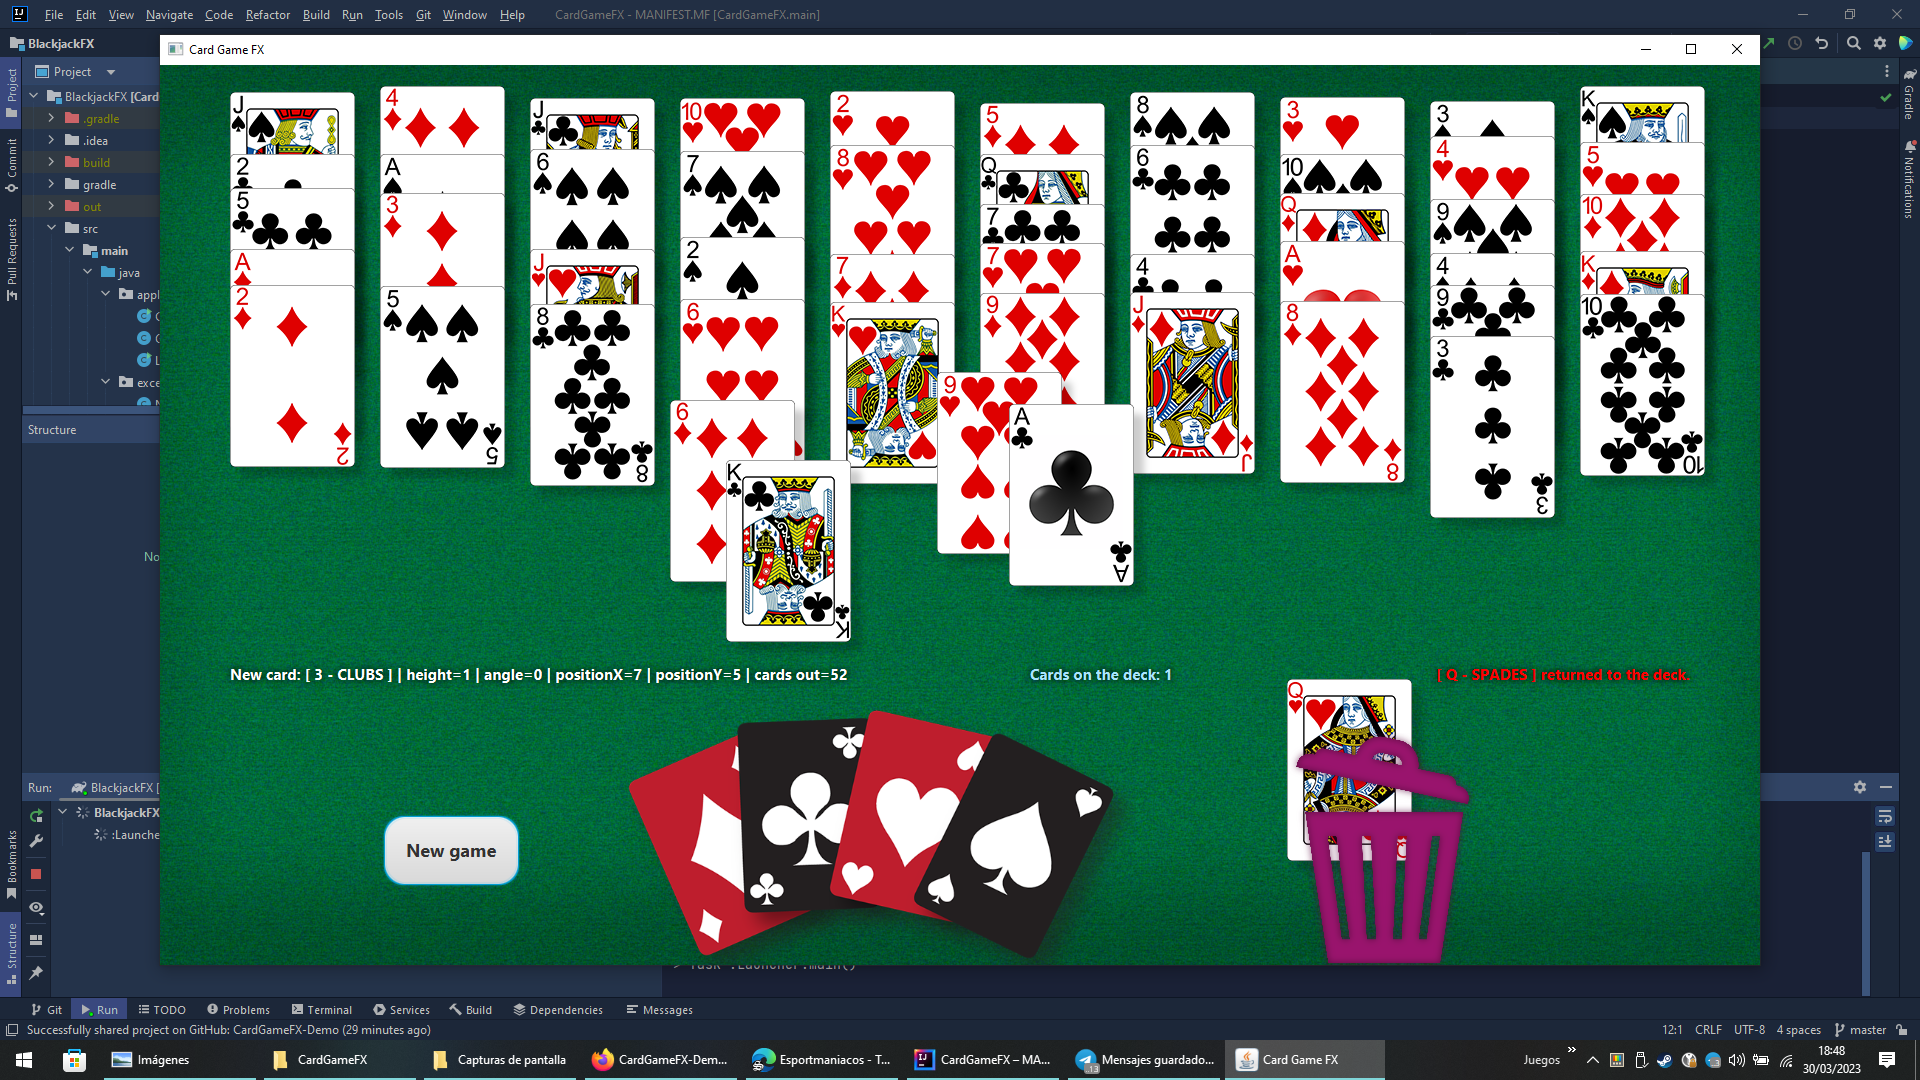
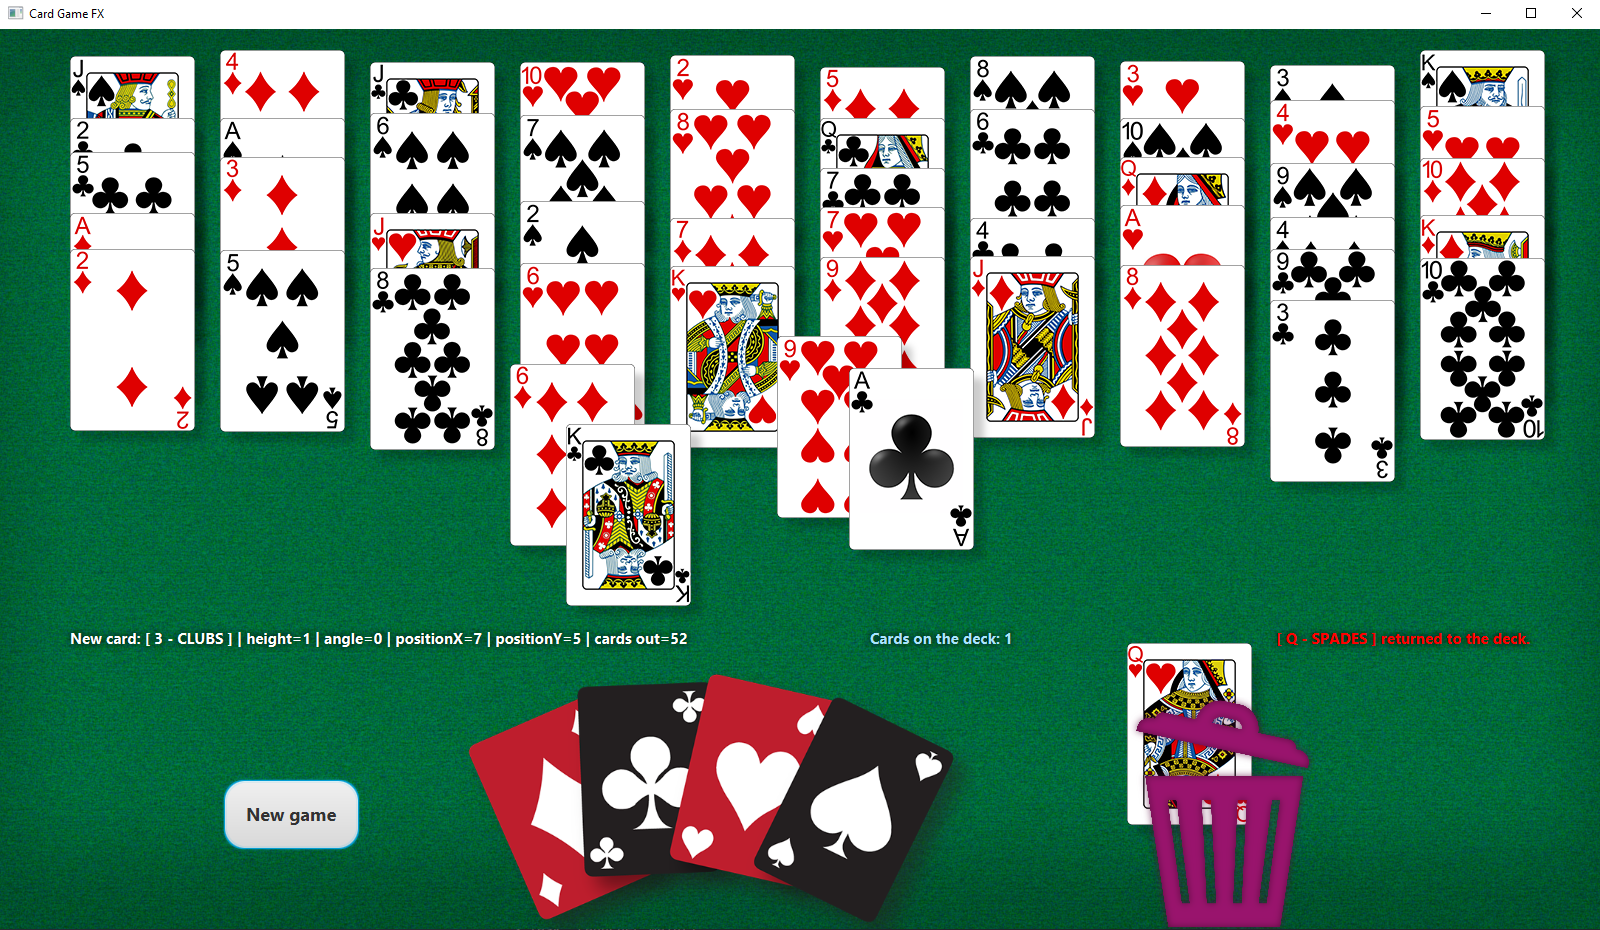
Added full description and images

diff --git a/README.md b/README.md
@@ -1,2 +1,12 @@
 # Card Game FX - Demo
-Demo for a card game implemented with JavaFX for learning purposes.
+Card game demo implemented with JavaFX for learning purposes.
+
+![image1.png](src%2Fmain%2Fresources%2Fimage1.png)
+
+It includes a clickable deck that lets you draw cards until they run out. The cards zoom in when you move the mouse over them, and can be dragged freely inside the window.
+
+If you drop a card inside the paper bin, it will be returned at the bottom of the deck ready to be drawn again.
+
+The "New game" button returns all the cards to the deck and shuffles them again.
+
+![image2.png](src%2Fmain%2Fresources%2Fimage2.png)
